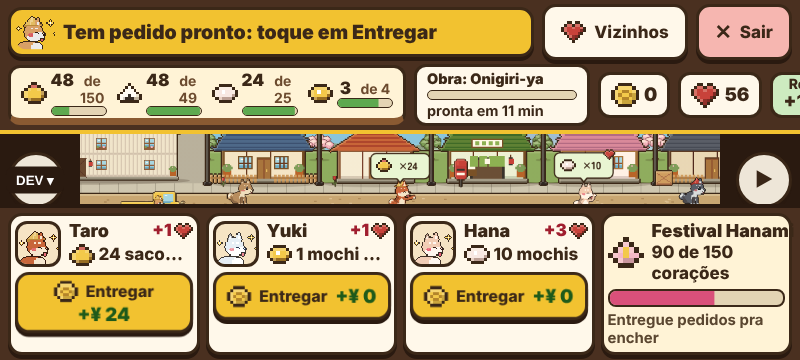
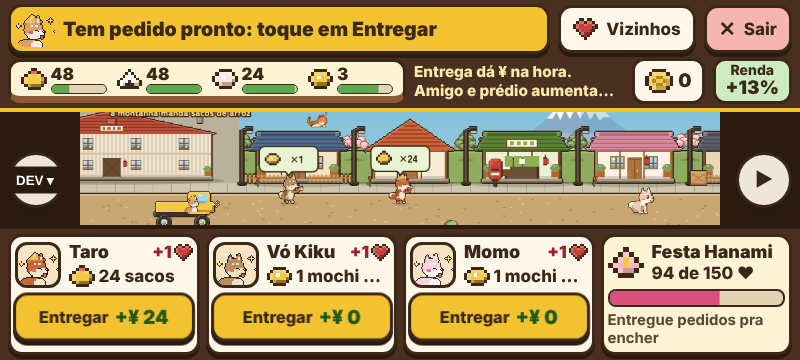
kome: WIP rodada de UX + bugs (em andamento)
Claude-Session: https://claude.ai/code/session_01QMuA8b6SJ9Cv2sd7LT1RZF

diff --git a/kome/game/ux-patio.css b/kome/game/ux-patio.css
@@ -34,14 +34,14 @@
 .k-cui .k-cui-b.green{background:linear-gradient(#BFE08F,#7FBF5A)!important}
 .k-cui-b.green b::before{content:'✔ '}
 /* ---- Pátio ---- */
-.k-cui-patio{top:10px;bottom:10px;right:10px;width:520px;max-width:calc(100% - 20px)}
-.k-mob .k-cui-patio{width:660px}
+.k-cui .k-cui-patio{top:10px;bottom:10px;right:10px;width:520px;max-width:calc(100% - 20px)}
+.k-mob .k-cui .k-cui-patio{width:660px}
 .k-cui-tools{display:flex;align-items:center;gap:10px;padding:8px 10px;background:#F3E5C4;border-bottom:3px solid var(--ink);flex:0 0 auto}
 .k-cui-seg{display:flex;border:3px solid var(--ink);border-radius:14px;overflow:hidden;box-shadow:0 3px 0 var(--ink);flex:0 0 auto}
-.k-cui-seg button{min-width:64px;height:48px;padding:0 14px;font-size:var(--pxb);font-weight:900;background:#FFFAEE;border-left:3px solid var(--ink)}
-.k-mob .k-cui-seg button{height:68px;min-width:84px}
-.k-cui-seg button:first-child{border-left:0}
-.k-cui-seg button.on{background:#F2C230;text-decoration:underline}
+.k-cui .k-cui-seg button{min-width:64px;height:48px;padding:0 14px;font-size:var(--pxb);font-weight:900;background:#FFFAEE;border-left:3px solid var(--ink)}
+.k-mob .k-cui .k-cui-seg button{height:68px;min-width:84px}
+.k-cui .k-cui-seg button:first-child{border-left:0}
+.k-cui .k-cui-seg button.on{background:#F2C230;text-decoration:underline}
 .k-cui-sp{flex:1 1 auto}
 .k-cui-list,.k-cui-pane{flex:1 1 auto;overflow-y:auto;overflow-x:hidden;padding:8px 10px 16px;touch-action:pan-y;overscroll-behavior:contain;-webkit-overflow-scrolling:touch;background:linear-gradient(#FFF8EA 30%,rgba(255,248,234,0)) center top/100% 30px no-repeat local,linear-gradient(rgba(255,248,234,0),#FFF8EA 70%) center bottom/100% 30px no-repeat local,linear-gradient(rgba(59,40,24,.28),rgba(59,40,24,0)) center top/100% 12px no-repeat scroll,linear-gradient(rgba(59,40,24,0),rgba(59,40,24,.28)) center bottom/100% 12px no-repeat scroll,#FFF8EA}
 .k-cui-list::-webkit-scrollbar,.k-cui-pane::-webkit-scrollbar{width:12px}
@@ -71,8 +71,8 @@
 .k-cui-float{position:absolute;pointer-events:none;font-size:22px;font-weight:900;color:#FFE16A;-webkit-text-stroke:5px var(--ink);paint-order:stroke;animation:kcuifl 1.1s ease-out forwards;white-space:nowrap;z-index:5}
 @keyframes kcuifl{0%{transform:translate(-50%,0) scale(.7);opacity:0}15%{transform:translate(-50%,-8px) scale(1.15);opacity:1}100%{transform:translate(-50%,-56px);opacity:0}}
 /* ---- Melhorias: ver todas ---- */
-.k-cui-ups{left:50%;top:10px;bottom:10px;width:760px;max-width:calc(100% - 20px);transform:translate(-50%,10px) scale(.97)}
-.k-cui-ups.on{transform:translate(-50%,0)}
+.k-cui .k-cui-ups{left:50%;top:10px;bottom:10px;width:760px;max-width:calc(100% - 20px);transform:translate(-50%,10px) scale(.97)}
+.k-cui .k-cui-ups.on{transform:translate(-50%,0)}
 .k-px-det{border:3px solid var(--ink);border-radius:14px;background:#F6ECD4;margin-bottom:8px;padding:0 8px}
 .k-px-det.can{background:#FFF0B8}
 .k-px-det summary{display:flex;align-items:center;gap:10px;min-height:56px;cursor:pointer;list-style:none;font-size:var(--pxt)}
@@ -84,8 +84,8 @@
 .k-px-det[open] summary::after{content:'▲ fechar'}
 .k-px-det[open]{padding-bottom:2px}
 /* ---- Coração / Conquistas ---- */
-.k-cui-heart,.k-cui-seeds{left:50%;top:10px;bottom:10px;width:940px;max-width:calc(100% - 20px);transform:translate(-50%,10px) scale(.97)}
-.k-cui-heart.on,.k-cui-seeds.on{transform:translate(-50%,0)}
+.k-cui .k-cui-heart,.k-cui .k-cui-seeds{left:50%;top:10px;bottom:10px;width:940px;max-width:calc(100% - 20px);transform:translate(-50%,10px) scale(.97)}
+.k-cui .k-cui-heart.on,.k-cui .k-cui-seeds.on{transform:translate(-50%,0)}
 .k-cui-tabs{display:flex;gap:6px;flex:0 0 auto}
 .k-cui .k-cui-tab{white-space:nowrap;flex:0 0 auto;min-height:52px;padding:4px 14px;border-radius:12px!important;border:3px solid var(--ink)!important;background:#C9A974!important;font-size:var(--pxb)!important;font-weight:900!important;color:var(--ink)!important;display:inline-flex;align-items:center;gap:6px;position:relative}
 .k-mob .k-cui .k-cui-tab{min-height:72px}
@@ -126,3 +126,6 @@
 .k-px-sfoot .k-px-cheap{flex:0 1 auto;max-width:55%}
 .k-cui .k-px-cheap span{font-size:var(--pxs);white-space:nowrap;overflow:hidden;text-overflow:ellipsis;max-width:100%}
 @media (orientation:portrait){.k-px-sgrid{grid-template-columns:1fr}.k-cui-bowls{grid-template-columns:repeat(2,1fr)}.k-cui-hl{flex:1 1 100%}.k-cui-foot{flex-wrap:wrap}.k-px-seed,.k-px-up{flex-wrap:wrap}.k-cui .k-px-seedb,.k-cui .k-px-upb{flex:1 1 100%}}
+.k-mob .k-cui .k-cui-seeds,.k-mob .k-cui .k-cui-heart,.k-mob .k-cui .k-cui-ups{width:calc(100% - 20px);top:6px;bottom:6px}
+.k-mob .k-px-tabs{padding:6px 8px}.k-mob .k-cui .k-px-tab{padding:4px 10px}
+.k-px-up{padding:6px 8px;margin-bottom:6px}

diff --git a/kome/game/ux-cidade.css b/kome/game/ux-cidade.css
@@ -49,7 +49,8 @@
 .cid-want{display:flex;align-items:center;gap:4px;font-weight:800;min-width:0}
 .cid-want span{white-space:nowrap;overflow:hidden;text-overflow:ellipsis}
 .cid-fest-ic{width:44px;height:44px}
-.cid-go{width:100%;justify-content:center;min-height:52px;padding:4px 8px;box-shadow:0 4px 0 #2a1a10;flex-wrap:wrap;column-gap:8px;row-gap:0}
+.cid-go{width:100%;justify-content:center;min-height:52px;padding:4px 6px;box-shadow:0 4px 0 #2a1a10;gap:6px;white-space:nowrap;overflow:hidden}
+.cid-fest .cid-want{white-space:nowrap}
 .k-mob .cid-go{min-height:56px}
 .cid-pay{font-size:calc(var(--b)*1.1);font-weight:900;color:#1F5A1A}
 .cid-wait{min-height:52px;display:flex;flex-direction:column;justify-content:center;gap:4px;font-weight:700;color:#5A4630;font-size:max(14px,calc(var(--b)*.88))}
@@ -111,7 +112,7 @@
 .cid-vila{position:fixed;left:50%;bottom:max(10px,env(safe-area-inset-bottom));transform:translateX(-50%);z-index:40;display:none;gap:10px;align-items:stretch;font-family:system-ui,sans-serif;color:#3B2818;max-width:96vw}
 .cid-vila.cid-on{display:flex}
 .cid-vila .ux-btn{box-shadow:0 4px 0 #2a1a10}
-.cid-vila-go{flex-direction:row;flex-wrap:wrap;justify-content:center;max-width:60vw}
+.cid-vila-go{flex-wrap:wrap;white-space:normal;justify-content:center;max-width:60vw}
 .cid-vila-go .cid-pay{flex-basis:100%;font-size:14px}
 .cid-vila-lock{display:none;flex-direction:column;gap:3px;justify-content:center;background:#D8CDB8;border:3px solid #3B2818;border-radius:14px;padding:6px 12px;font-size:15px;font-weight:700;min-width:220px}
 .cid-vila.cid-locked .cid-vila-go{display:none}.cid-vila.cid-locked .cid-vila-lock{display:flex}
@@ -124,6 +125,10 @@
 /* celular deitado (tela baixa): tudo mais justo pra rua aparecer */
 @media (max-height:480px){
   .cid-top{padding:4px 8px;gap:4px}
+  .cid-r1 .ux-btn,.k-mob .cid-r1 .ux-btn{min-height:48px;padding:4px 12px}
+  .cid-now{min-height:48px}.cid-now-face{width:38px;height:38px}
+  .cid-jar-cap,.cid-hearts{display:none}.cid-full .cid-jar-cap{display:inline}
+  .cid-go .cid-ic{display:none}
   .cid-shelf,.cid-stat{min-height:36px}
   .cid-shelf-t{display:none}
   .cid-bot{padding:5px 8px;gap:6px}

diff --git a/kome/game/cidade.js b/kome/game/cidade.js
@@ -874,11 +874,11 @@
     }
     // festival
     const f = ui.fest, se = season(), full = c.fest >= CFG.FEST_NEED, on = c.festOn > 0;
-    setIco(f.ic, SEASON_ICON[c.season]); setT(f.nome, 'Festival ' + se.fest);
+    setIco(f.ic, SEASON_ICON[c.season]); setT(f.nome, 'Festa ' + se.fest);
     setC(f, 'cid-is-ready', full && !on); setC(f, 'cid-is-wait', !full || on); setC(f, 'cid-fest-on', on);
     if (on) { setT(f.sub, 'Tá rolando!'); setT(f.line, 'Corações em dobro · acaba em ' + emPalavras(c.festOn)); setBar(f.bar.fill, c.festOn / CFG.FEST_SEC); }
-    else if (full) setT(f.sub, 'Corações em dobro por ' + emPalavras(CFG.FEST_SEC));
-    else { setT(f.sub, Math.floor(c.fest) + ' de ' + CFG.FEST_NEED + ' corações'); setT(f.line, 'Entregue pedidos pra encher'); setBar(f.bar.fill, c.fest / CFG.FEST_NEED); }
+    else if (full) setT(f.sub, '♥ em dobro, ' + emPalavras(CFG.FEST_SEC));
+    else { setT(f.sub, Math.floor(c.fest) + ' de ' + CFG.FEST_NEED + ' ♥'); setT(f.line, 'Entregue pedidos pra encher'); setBar(f.bar.fill, c.fest / CFG.FEST_NEED); }
     // setas
     setC(ui.arL, 'cid-on', R.camX > 10); setC(ui.arR, 'cid-on', R.camX < world() - W - 10);
     // janela da escolha
@@ -894,7 +894,7 @@
     const a = Math.max(0, (ui.top.getBoundingClientRect().bottom - r.top) / s), b = Math.min(H, (ui.bot.getBoundingClientRect().top - r.top) / s);
     R.oy = a <= 118 && b >= BOT ? 0 : Math.round(U.clamp((a + b) / 2 - 240, -70, 70));
     R.sr = { l: r.left, t: r.top, s };
-    const hr = ui.hearts.getBoundingClientRect();
+    const hr = (ui.hearts.offsetWidth ? ui.hearts : ui.fest).getBoundingClientRect();
     R.hx = (hr.left + 14 - r.left) / s; R.hy = Math.max(8, (hr.top + hr.height / 2 - r.top) / s);
   }
   function uiFollow() {      // plaquinha da obra acompanha o terreno

diff --git a/kome/game/data.js b/kome/game/data.js
@@ -438,7 +438,7 @@
     ARROZ_RATE: 0.5, ARROZ_SEC: 0.5,     // a montanha manda sacos de arroz pra Despensa (por s); cada saco vale ARROZ_SEC s da sua renda
     BUILD_RENDA: 2,                      // cada prédio pronto: +2% de renda pra sempre (soma no Arroz do Coração, igual à amizade)
     ITEMS: {
-      arroz: { nome: 'saco de arroz', plural: 'sacos de arroz', capMin: 60, qMin: 8 },
+      arroz: { nome: 'saco', plural: 'sacos', capMin: 60, qMin: 8 },
       onigiri: { nome: 'onigiri', plural: 'onigiris', capMin: 40, qMin: 6 },
       mochi: { nome: 'mochi', plural: 'mochis', capMin: 12, qMin: 3 },
       mochid: { nome: 'mochi dourado', plural: 'mochis dourados', capMin: 4, qMin: 1 },
